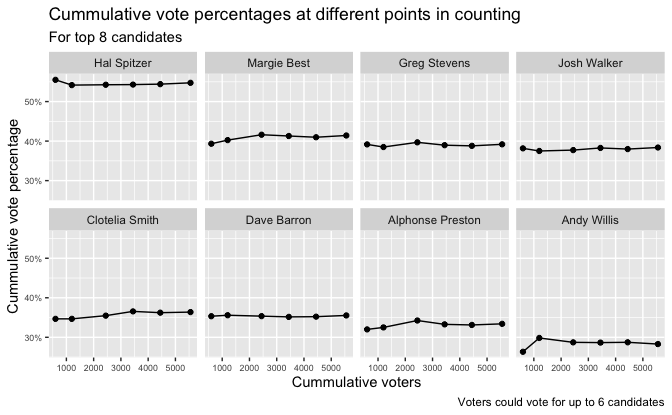
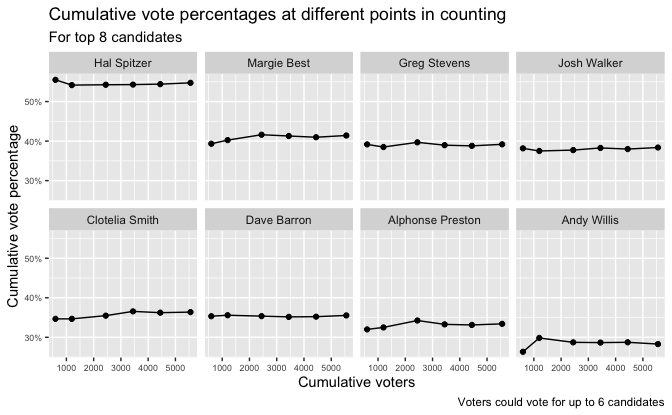
Initial commit

Changed region(s): [[0.125, 0.0, 0.7812, 0.0578], [0.0, 0.2892, 0.0312, 0.7518], [0.4375, 0.8964, 0.625, 0.9542]]

diff --git a/Coop/riverbay_tv.md b/Coop/riverbay_tv.md
@@ -1,16 +1,11 @@
 Regression and Other Stories: Coop
 ================
 Andrew Gelman, Jennifer Hill, Aki Vehtari
-2020-12-18
+2021-02-22
 
--   [Data](#data)
--   [Plots](#plots)
-    -   [Cummulative vote percentages at different points in
-        counting](#cummulative-vote-percentages-at-different-points-in-counting)
-    -   [Vote percentages of new votes at different points in
-        counting](#vote-percentages-of-new-votes-at-different-points-in-counting)
-    -   [Standard deviation of vote proportions of new votes for each
-        candidate](#standard-deviation-of-vote-proportions-of-new-votes-for-each-candidate)
+-   [4 Statistical inference](#4-statistical-inference)
+    -   [4.6 Example of hypothesis testing: 55,000 residents need your
+        help!](#46-example-of-hypothesis-testing-55000-residents-need-your-help)
 
 Tidyverse version by Bill Behrman.
 
@@ -35,7 +30,11 @@ file_common <- here::here("_common.R")
 source(file_common)
 ```
 
-## Data
+# 4 Statistical inference
+
+## 4.6 Example of hypothesis testing: 55,000 residents need your help!
+
+Data.
 
 ``` r
 votes <- 
@@ -60,7 +59,7 @@ votes <-
   ungroup()
 ```
 
-Candidates who received the most votes
+Candidates who received the most votes.
 
 ``` r
 voters <- 
@@ -99,9 +98,7 @@ candidates_top_8 <-
   pull(name_2)
 ```
 
-## Plots
-
-### Cummulative vote percentages at different points in counting
+Cumulative vote percentages at different points in counting.
 
 ``` r
 votes_top_8 <- 
@@ -117,17 +114,17 @@ votes_top_8 %>%
   facet_wrap(facets = vars(name), ncol = 4) +
   theme(axis.text = element_text(size = rel(0.6))) +
   labs(
-    title = "Cummulative vote percentages at different points in counting",
+    title = "Cumulative vote percentages at different points in counting",
     subtitle = "For top 8 candidates",
-    x = "Cummulative voters",
-    y = "Cummulative vote percentage",
+    x = "Cumulative voters",
+    y = "Cumulative vote percentage",
     caption = "Voters could vote for up to 6 candidates"
   )
 ```
 
 <img src="riverbay_tv_files/figure-gfm/unnamed-chunk-5-1.png" width="100%" />
 
-### Vote percentages of new votes at different points in counting
+Vote percentages of new votes at different points in counting.
 
 ``` r
 votes_top_8 %>% 
@@ -140,7 +137,7 @@ votes_top_8 %>%
   labs(
     title = "Vote percentages of new votes at different points in counting",
     subtitle = "For top 8 candidates",
-    x = "Cummulative voters",
+    x = "Cumulative voters",
     y = "Vote percentage of new votes",
     caption = "Voters could vote for up to 6 candidates"
   )
@@ -148,7 +145,7 @@ votes_top_8 %>%
 
 <img src="riverbay_tv_files/figure-gfm/unnamed-chunk-6-1.png" width="100%" />
 
-### Standard deviation of vote proportions of new votes for each candidate
+Standard deviation of vote proportions of new votes for each candidate.
 
 ``` r
 v <- 
